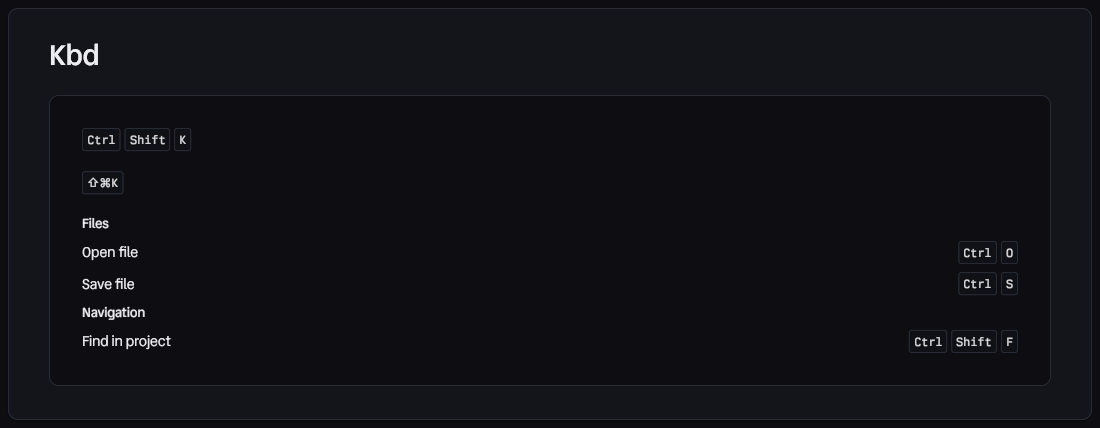
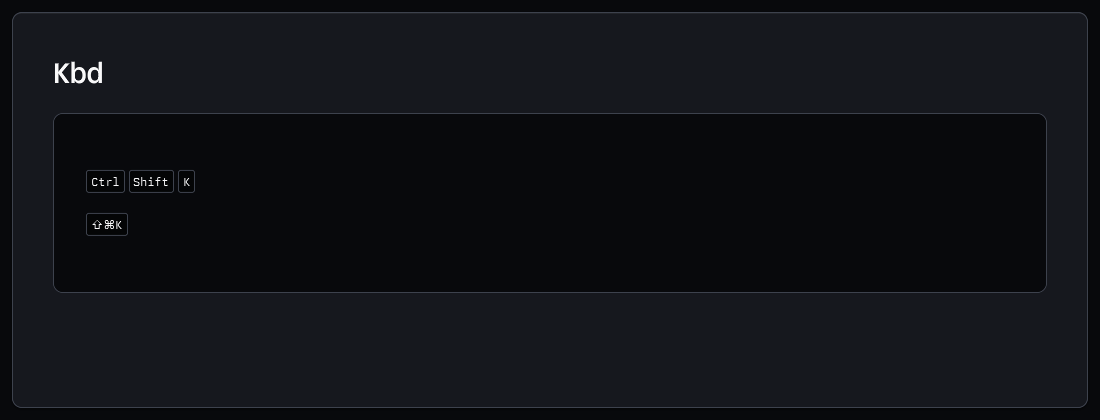
Move loose Widgets source files into owning folders

diff --git a/CHANGELOG.md b/CHANGELOG.md
@@ -2,6 +2,7 @@
 
 ## Unreleased
 
+- Move loose source files into folders: `FuzzyMatch` to `Search/`, `Kbd`, `ShortcutList` and `Typography` to `Content/`, `RovingFocus`, `TypeAhead` and `WidgetKeyBindings` to `Keyboard/`, and `ILLink.Substitutions.xml` to `Icons/`. Namespaces, types and the embedded resource name do not change. The gallery shows `ShortcutList` on its own Shortcut list page.
 - Window theme attachment and `ThemeScope` apply high contrast, platform text scale and reduced motion through one shared transform. Behavior does not change.
 - Split the `Theme` source into partial files: context and attachment, resolution, color, styles, widget presets and one file per palette family. The public API, values and visuals do not change. The `Theme` type summary is missing from `Goo.Widgets.xml` until the G# SDK includes the partial-type documentation fix (DavidObando/gsharp#5762).
 - The OVERLAYS Popover content-height checks read the border and padding from the laid-out panel, so they hold when Goo snaps border widths to device pixels at display scale 1.5. The window-point press check presses the background control clear of the popover anchor button and requires the press to reach it when `DismissOnOutsideClick` is false.

diff --git a/samples/screenshots/README.md b/samples/screenshots/README.md
@@ -99,4 +99,4 @@ Each image links to its page source. New pages need a registration, a matching P
 | | | |
 | --- | --- | --- |
 | [![Markdown view](MarkdownView.png)](../Goo.Widgets.Gallery/Pages/Content/MarkdownViewPage.gs)<br>Markdown view | [![Typography](Typography.png)](../Goo.Widgets.Gallery/Pages/Content/TypographyPage.gs)<br>Typography | [![Kbd](Kbd.png)](../Goo.Widgets.Gallery/Pages/Content/KbdPage.gs)<br>Kbd |
-| [![Code block](CodeBlock.png)](../Goo.Widgets.Gallery/Pages/Content/CodeBlockPage.gs)<br>Code block | | |
+| [![Shortcut list](ShortcutList.png)](../Goo.Widgets.Gallery/Pages/Content/ShortcutListPage.gs)<br>Shortcut list | [![Code block](CodeBlock.png)](../Goo.Widgets.Gallery/Pages/Content/CodeBlockPage.gs)<br>Code block | |
